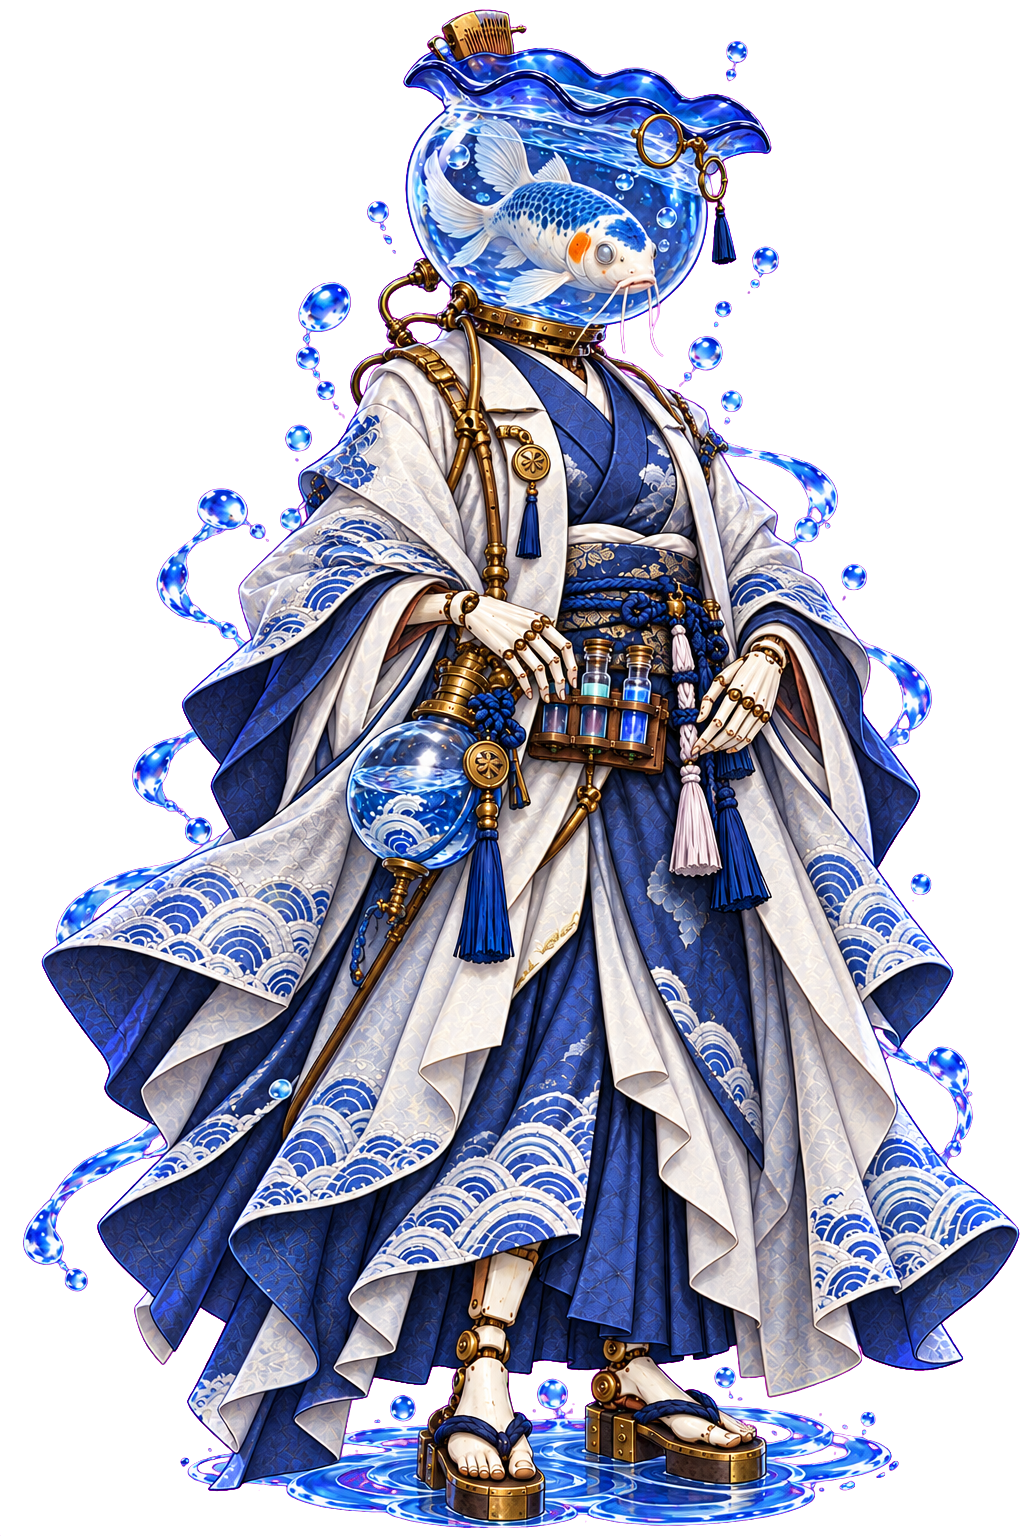
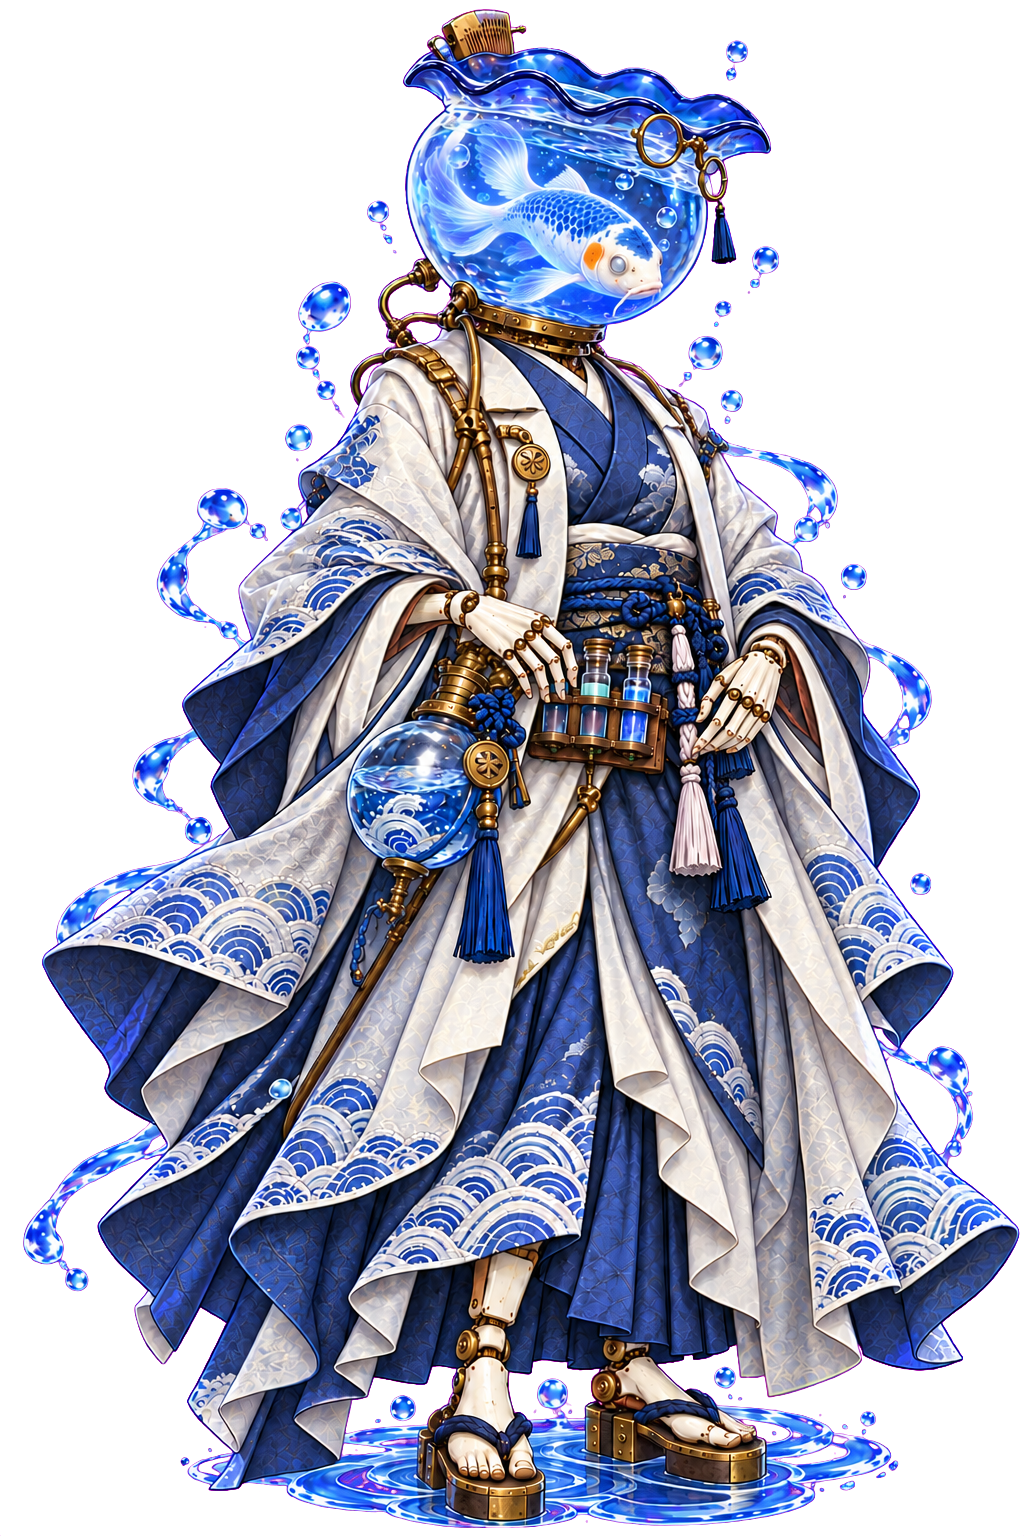
Asagi's koi repainted as a soul: translucent veil fins trailing into sea-blue spirit light, a soft inner glow and short curling barbels kept inside the glass (they poked out through the bowl before); the look brief says so

diff --git a/Story/Asagi.md b/Story/Asagi.md
@@ -22,8 +22,10 @@ suit with a glass bowl helmet, an Asagi koi, a cobalt-rimmed ruffled glass vase,
 coat holding a rack of vials.
 
 - **The head is a glass bowl.** Round, clear, full of water, with a ruffled cobalt lip like a vase. Her koi swims
-  inside and looks out at you: blue net scales on a white body, a white face, orange cheek patches, long white
-  barbels that hang like an old woman's whiskers, and one eye gone a little cloudy with age. When she's thinking
+  inside and looks out at you, and she is plainly a soul, not a pet: half-translucent and lit from within, blue net
+  scales glowing faintly on a pale body you can almost see through, a white face, orange cheek patches like embers,
+  fins and tail trailing off into wisps of soft sea-blue spirit light, and one eye gone a little cloudy with age. Her
+  barbels curl like an old woman's whiskers and **stay inside the glass**: nothing of the koi ever crosses the bowl. When she's thinking
   she turns a slow circle. When she laughs, bubbles.
 - **Old-lady touches.** A pair of gold pince-nez clipped to the bowl's rim, over nothing in particular. A plain
   wooden comb tucked into the ruffle, where a bun would be. A brass collar fitting where the bowl sits on the neck,
